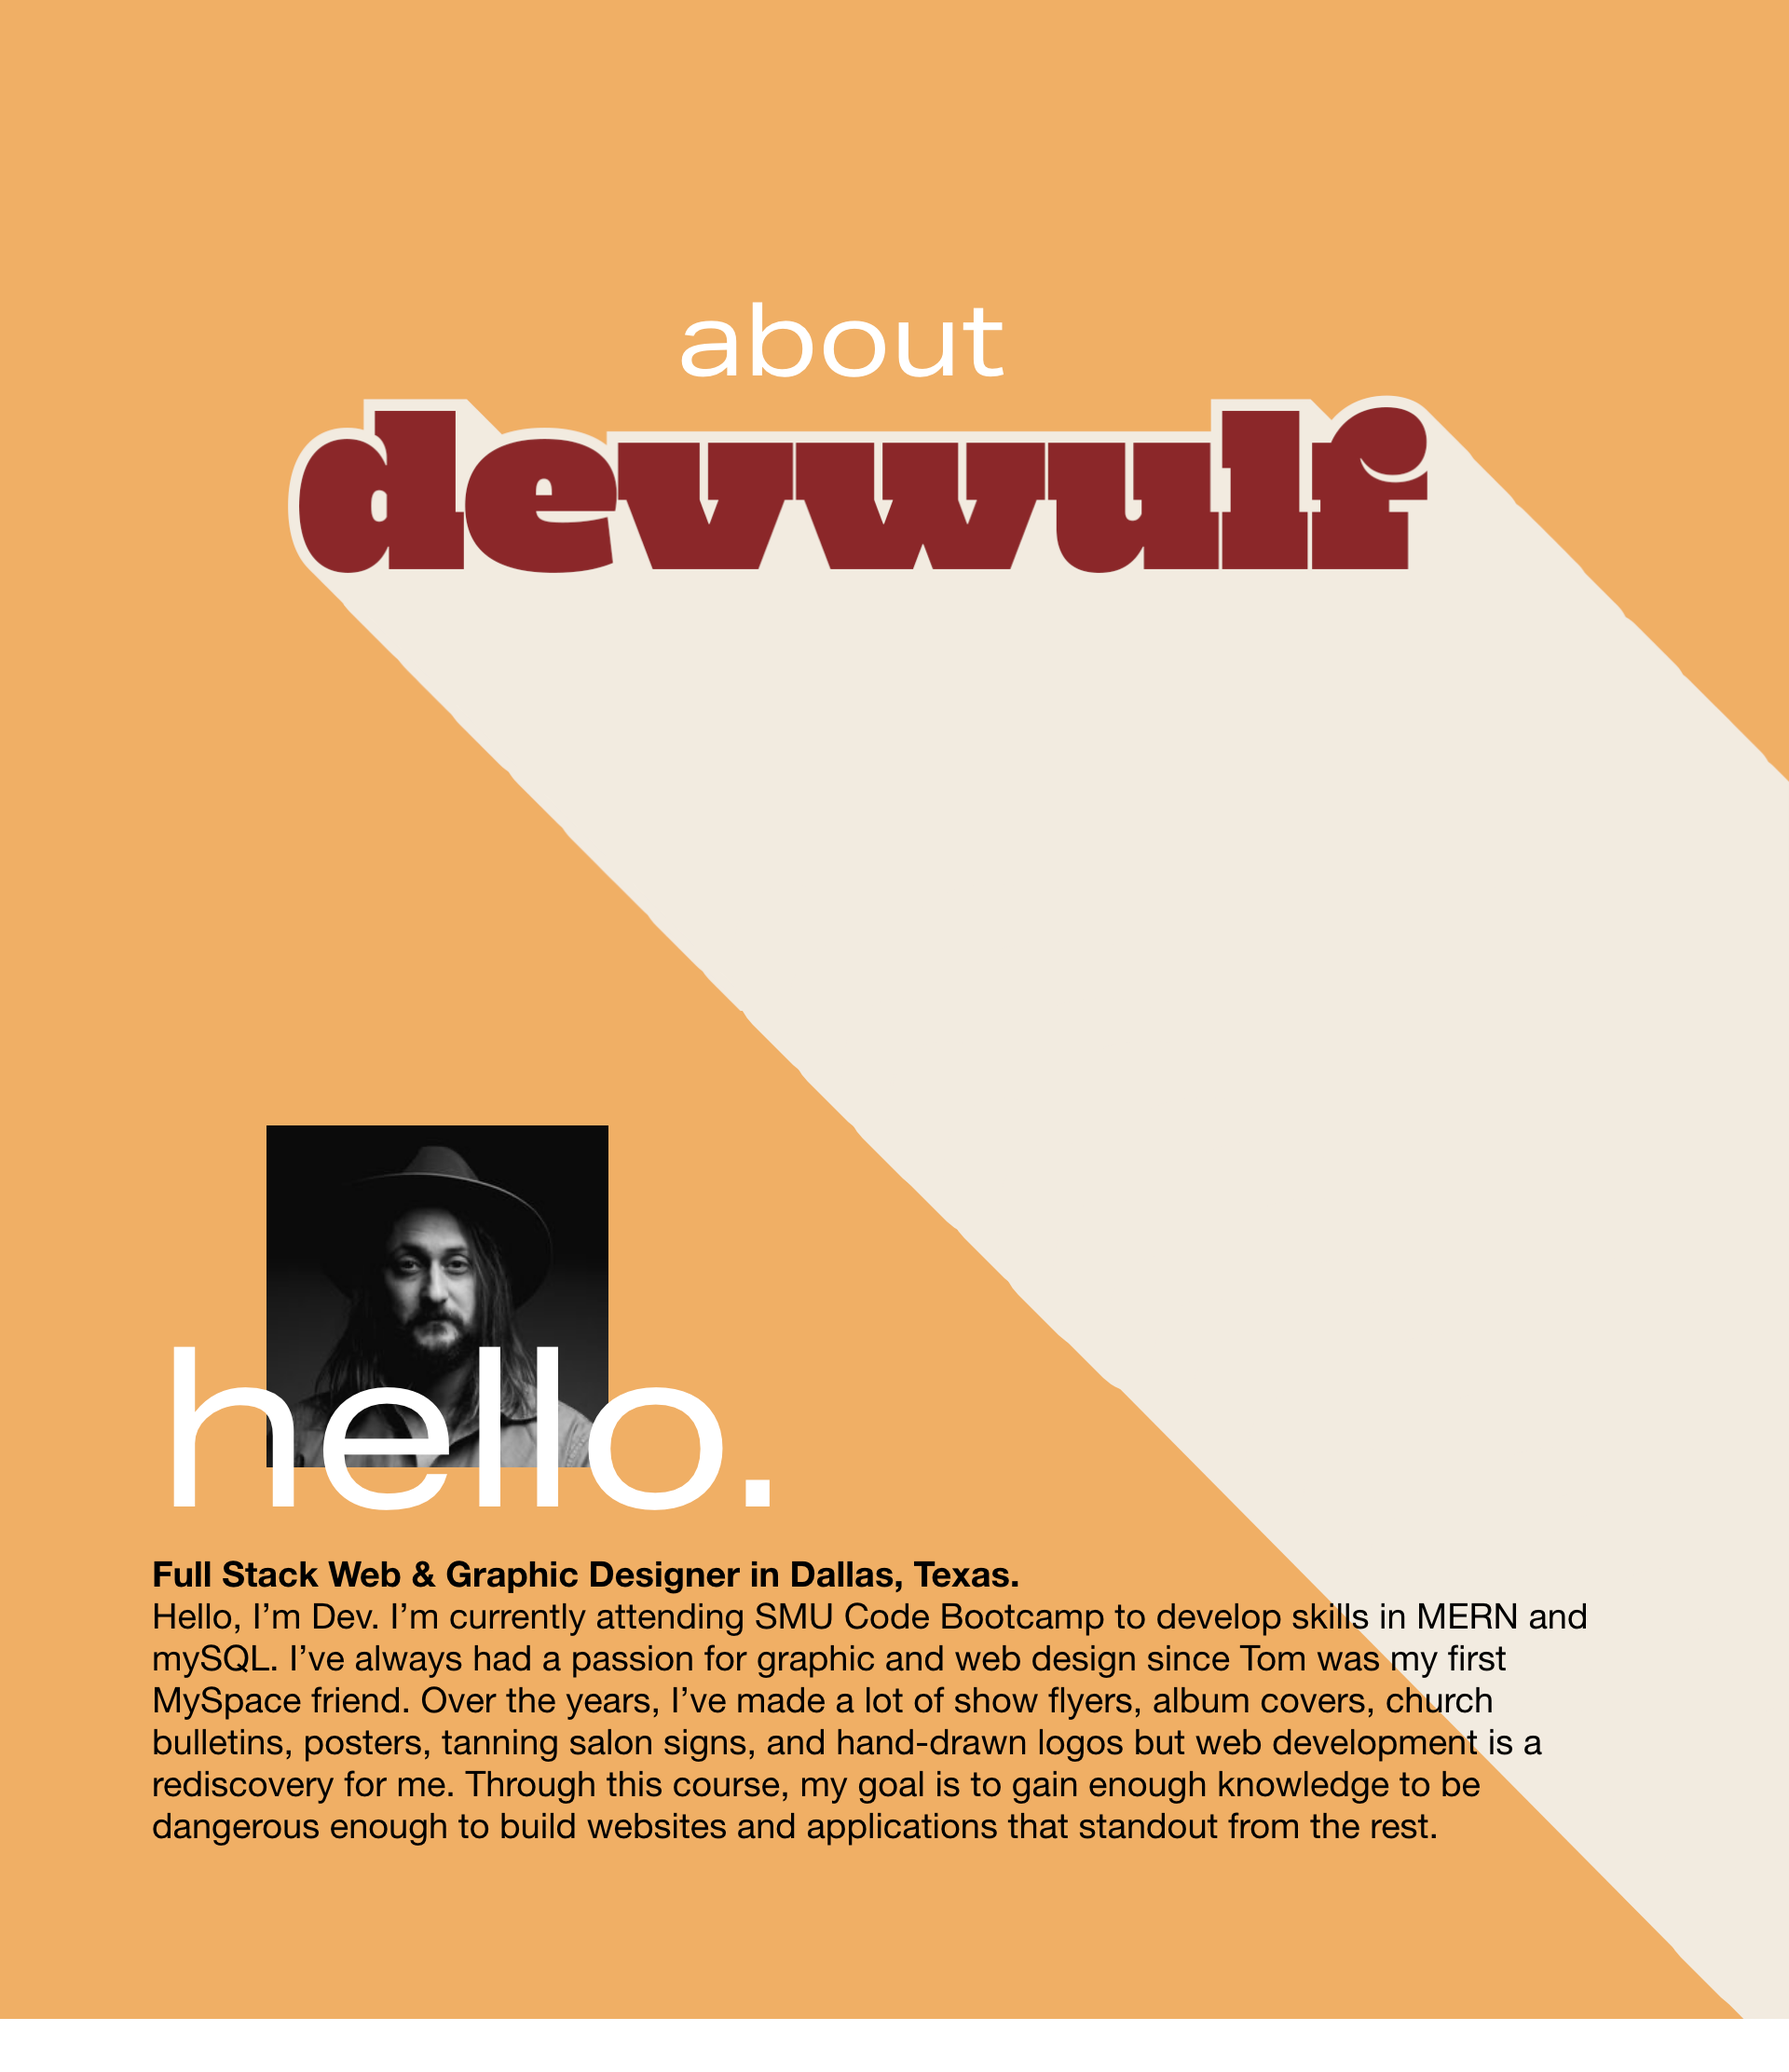
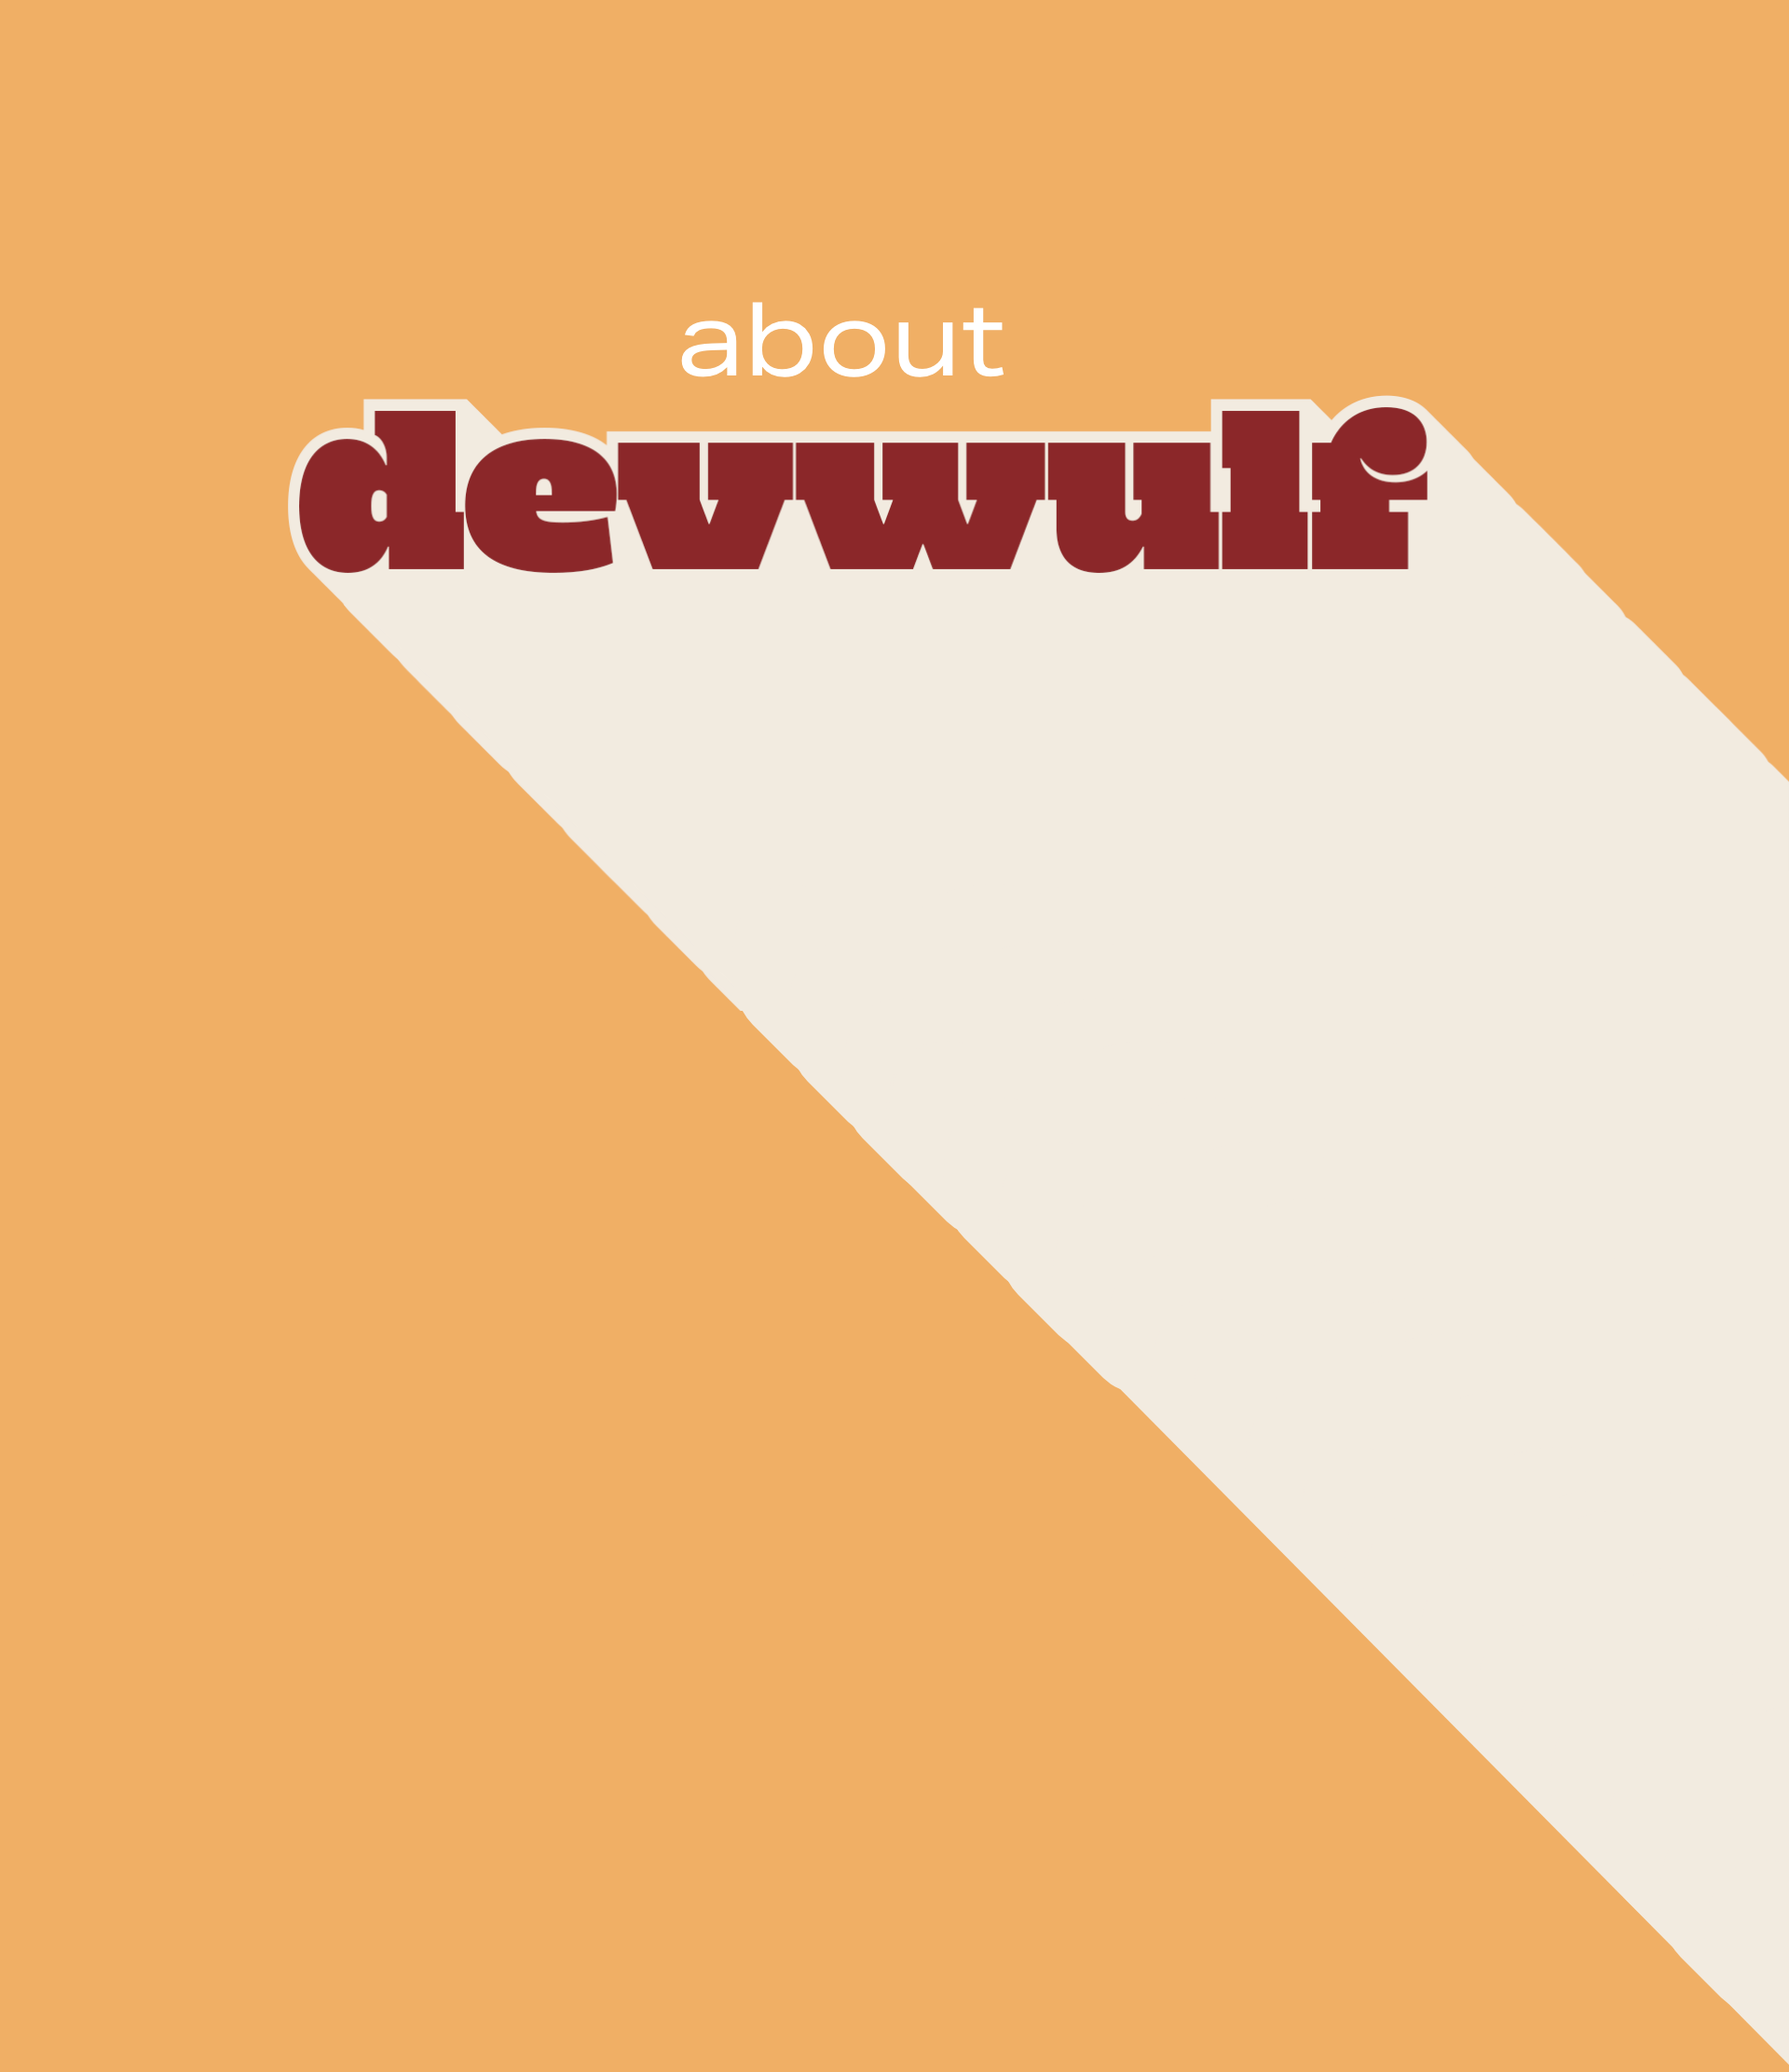
update about page

Changed region(s): [[0.0938, 0.5274, 0.875, 0.8997], [0.0, 0.9618, 1.0, 1.0]]

diff --git a/About.html b/About.html
@@ -1,110 +1,62 @@
 <!DOCTYPE html>
-<html>
-<head>
-<meta charset="utf-8"/>
-<meta http-equiv="X-UA-Compatible" content="IE=edge"/>
-<meta name="viewport" content="width=device-width, initial-scale=1.0">
-<link rel="stylesheet" href="./Assets/css/about.css">
-<title>About</title>
-</head>
-<body>
-<div id="About">
-	<svg class="Path_2" viewBox="0 0 1920 2339.269">
-		<path id="Path_2" d="M 0 0 L 1919.999877929688 0 L 1919.999877929688 2339.268798828125 L 0 2339.268798828125 L 0 0 Z">
-		</path>
-	</svg>
-	<img id="nameplate-folio2" src="nameplate-folio2.png" srcset="nameplate-folio2.png 1x, nameplate-folio2@2x.png 2x">
-		
-	<svg class="Line_1" viewBox="0 0 1618 1635">
-		<path id="Line_1" d="M 0 0 L 1618 1635">
-		</path>
-	</svg>
-	<div id="devwulf">
-		<span>devwulf</span>
-	</div>
-	<div id="devwulf_m">
-		<span>devwulf</span>
-	</div>
-	<div id="devwulf_n">
-		<span>devwulf</span>
-	</div>
-	<div id="devwulf_o">
-		<span>devwulf</span>
-	</div>
-	<div id="devwulf_p">
-		<span>devwulf</span>
-	</div>
-	<div id="devwulf_q">
-		<span>devwulf</span>
-	</div>
-	<div id="devwulf_r">
-		<span>devwulf</span>
-	</div>
-	<div id="devwulf_s">
-		<span>devwulf</span>
-	</div>
-	<div id="devwulf_t">
-		<span>devwulf</span>
-	</div>
-	<div id="devwulf_u">
-		<span>devwulf</span>
-	</div>
-	<div id="devwulf_v">
-		<span>devwulf</span>
-	</div>
-	<div id="devwulf_w">
-		<span>devwulf</span>
-	</div>
-	<div id="devwulf_x">
-		<span>devwulf</span>
-	</div>
-	<div id="devwulf_y">
-		<span>devwulf</span>
-	</div>
-	<div id="devwulf_z">
-		<span>devwulf</span>
-	</div>
-	<div id="devwulf_">
-		<span>devwulf</span>
-	</div>
-	<div id="devwulf_ba">
-		<span>devwulf</span>
-	</div>
-	<div id="devwulf_bb">
-		<span>devwulf</span>
-	</div>
-	<div id="devwulf_bc">
-		<span>devwulf</span>
-	</div>
-	<div id="devwulf_bd">
-		<span>devwulf</span>
-	</div>
-	<div id="devwulf_be">
-		<span>devwulf</span>
-	</div>
-	<div id="devwulf_bf">
-		<span>devwulf</span>
-	</div>
-	<div id="devwulf_bg">
-		<span>devwulf</span>
-	</div>
-	<div id="devwulf_bh">
-		<span>devwulf</span>
-	</div>
-	<div id="Group_2">
-		<div id="about">
-			<span>about</span>
-		</div>
-	</div>
-	<div id="Full_Stack_Web__Graphic_Design">
-		<span>Full Stack Web & Graphic Designer in Dallas, Texas. </span><br/><span style="font-style:normal;font-weight:normal;">Hello, I’m Dev. I’m currently attending SMU Code Bootcamp to develop skills in MERN and mySQL. I’ve always had a passion for graphic and web design since Tom was my first MySpace friend. Over the years, I’ve made a lot of show flyers, album covers, church bulletins, posters, tanning salon signs, and hand-drawn logos but web development is a rediscovery for me. Through this course, my goal is to gain enough knowledge to be dangerous enough to build websites and applications that standout from the rest.</span>
-	</div>
-	<img id="dev-profile-wvb" src="dev-profile-wvb.png" srcset="dev-profile-wvb.png 1x, dev-profile-wvb@2x.png 2x">
-		
-	<div id="hello">
-		<span>hello.</span>
-	</div>
-</div>
-</body>
-<script src="./Assets/js/about.js"></script>
+<html lang="en">
+	<head>
+		<meta charset="UTF-8" />
+		<meta http-equiv="X-UA-Compatible" content="IE=edge" />
+		<meta name="viewport" content="width=device-width, initial-scale=1.0" />
+		<!-- Insert third-party APIs here-->
+		<!-- <link rel="stylesheet" type="text/css" href="#reset.css" /> -->
+		<link rel="stylesheet" href="https://cdn.jsdelivr.net/npm/bootstrap@4.3.1/dist/css/bootstrap.min.css" integrity="sha384-ggOyR0iXCbMQv3Xipma34MD+dH/1fQ784/j6cY/iJTQUOhcWr7x9JvoRxT2MZw1T" crossorigin="anonymous">
+		<!-- Third-Party Fonts.css -->
+		<link rel="stylesheet" href="https://use.typekit.net/bne8ghy.css">
+		<link rel="stylesheet" type="text/css" href="./Assets/css/main2.css" />
+		<link rel="stylesheet" type="text/css" href="./Assets/css/about.css" />
+		<title>Devin Wulf | About</title>
+		</head>
+		<body>
+			<header>
+                <!-- Title -->
+                <h2 id="title-main">WulfSounds</h2>
+                <!-- <h2 id="title-second">WulfSounds</h2> -->
+                <!-- <h2 id="title-third">WulfSounds</h2> -->
+                <h2 id="title-fourth">WulfSounds</h2>
+
+                <!-- Navigation -->
+                <ul class="nav justify-content-end">
+                  <li class="nav-item">
+                    <a class="nav-link" href="#folio">folio</a>
+                  </li>
+                  <li class="nav-item">
+                    <a class="nav-link active" href="./About.html">about</a>
+                  </li>
+                  <li class="nav-item">
+                    <a class="nav-link" href="https://github.com/wulfsounds" target="_blank">github</a>
+                  </li>
+                  <li class="nav-item">
+                    <a class="nav-link" href="mailto:devinlwulf@gmail.com">email</a>
+                  </li>
+                </ul>
+            </header>
+			<main>
+				<div class="container">
+					<img class="profile-pic" src="./Assets/images/dev-profile.jpg" alt="profile picture">
+					<h3>hello</h3>
+					<div class="bio">
+						<p><strong>
+							Stack Web & Graphic Designer in Dallas, Texas. 
+						</strong>
+							Hello, I’m Dev. I’m currently attending SMU Code Bootcamp to develop skills in MERN and mySQL. I’ve always had a passion for graphic and web design since Tom was my first MySpace friend. Over the years, I’ve made a lot of show flyers, album covers, church bulletins, posters, tanning salon signs, and hand-drawn logos but web development is a rediscovery for me. Through this course, my goal is to gain enough knowledge to be dangerous enough to build websites and applications that standout from the rest.</p>
+					</div>
+				</div>
+			</main>
+		</body>
+		<!-- jQuery -->
+		<script src="https://code.jquery.com/jquery-3.5.1.min.js"></script>
+		<!-- Moment.js -->
+		<script src="https://cdnjs.cloudflare.com/ajax/libs/moment.js/2.29.1/moment.min.js" integrity="sha512-qTXRIMyZIFb8iQcfjXWCO8+M5Tbc38Qi5WzdPOYZHIlZpzBHG3L3by84BBBOiRGiEb7KKtAOAs5qYdUiZiQNNQ==" crossorigin="anonymous" referrerpolicy="no-referrer"></script>
+		<!-- Bootstrap v4.5-->
+		<script src="https://cdnjs.cloudflare.com/ajax/libs/popper.js/1.16.1/umd/popper.min.js"></script>
+		<script src="https://cdnjs.cloudflare.com/ajax/libs/twitter-bootstrap/4.5.0/js/bootstrap.min.js"></script> 
+		<!-- Self-Coded -->
+		<!-- <script type="text/javascript" src="#"></script> -->
 </html>

diff --git a/Assets/css/about.css b/Assets/css/about.css
@@ -1,0 +1,53 @@
+html {
+    height: 100vh;
+}
+
+body {
+    background-image: url("../images/About.png");
+    background-repeat: no-repeat;
+    background-size: 100%;
+}
+
+.profile-pic {
+    width: 200px;
+    margin-top: 50em;
+    margin-left: 10em;
+}
+
+main {
+    display: flex;
+    align-items: center;
+    justify-content: center;
+}
+
+.container {
+    margin-top: -4em;
+    margin-bottom: 10em;
+    margin-left: 5em;
+}
+
+h3 {
+    font-family: aktiv-grotesk-extended, sans-serif;
+    font-size: 100px;
+    font-weight: 400;
+    font-style: normal;
+    color: #FFF;
+    margin-top: -.75em;
+    margin-left: 1.35em;
+    width: 300px;
+}
+
+.hello {
+    margin-top: 10em;
+}
+
+p {
+    width: 600px;
+    margin-top: -26em;
+    margin-left: 29em;
+}
+
+.bio {
+    margin-top: 10em;
+    margin-right: 10em;
+}
